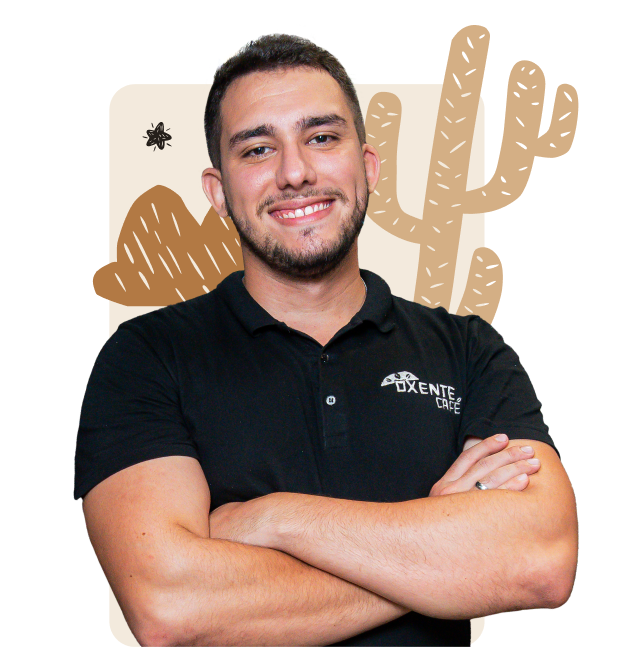
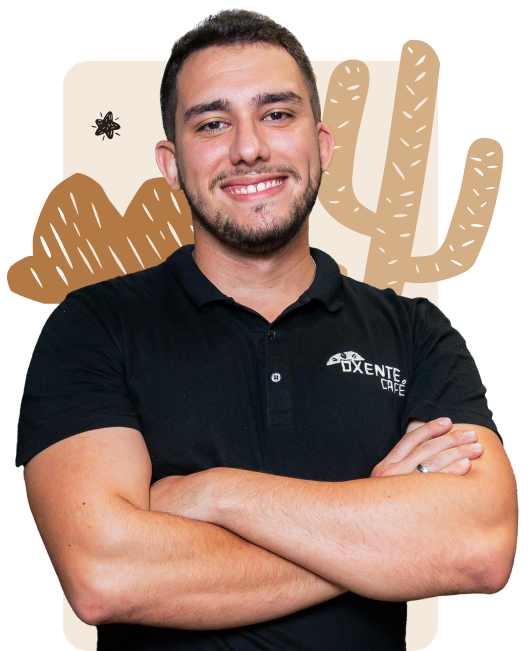
fix: adjust owner's photo

diff --git a/src/sections/sobre-nos/Bento.tsx b/src/sections/sobre-nos/Bento.tsx
@@ -3,17 +3,17 @@ import Image from "next/image";
 export default function Bento() {
   return (
     <section className="pt-6 overflow-hidden lg:pt-20 pb-20 lg:pb-32 px-5 bg-[#251F1A]">
-      <div className="space-y-12 lg:flex lg:justify-between max-w-[1060px] mx-auto">
+      <div className="space-y-12 lg:space-y-0 lg:grid lg:grid-cols-2 max-w-[1060px] mx-auto">
         <Image
-          width={437}
-          height={444}
+          width={526}
+          height={651}
           quality={100}
-          src="/assets/patrao.png"
+          src="/assets/patrao-2.png"
           alt="Bento, fundador do Oxente Café"
-          className="mx-auto lg:mx-0 lg:w-[635px] lg:h-[646px] lg:order-2 lg:translate-x-[100px]"
+          className="w-full mx-auto lg:mx-0 lg:min-w-[526px] lg:translate-x-10 lg:order-2"
         />
 
-        <div className="w-full max-w-[350px] lg:max-w-[412px] space-y-10 mx-auto lg:mx-0 lg:translate-y-10 lg:translate-x-10">
+        <div className="w-full max-w-[350px] lg:max-w-[486px] space-y-10 mx-auto lg:mx-0 lg:translate-y-5">
           <h2 className="font-primary text-[42px]/[42px] lg:text-[52px]/[52px] -tracking-[0.84px] lg:-tracking-[1.04px] text-[#D4AF85]">
             <span className="block max-w-[300px] lg:max-w-[360px]">
               Quem está por <span className="lg:block">trás da Oxente</span>
